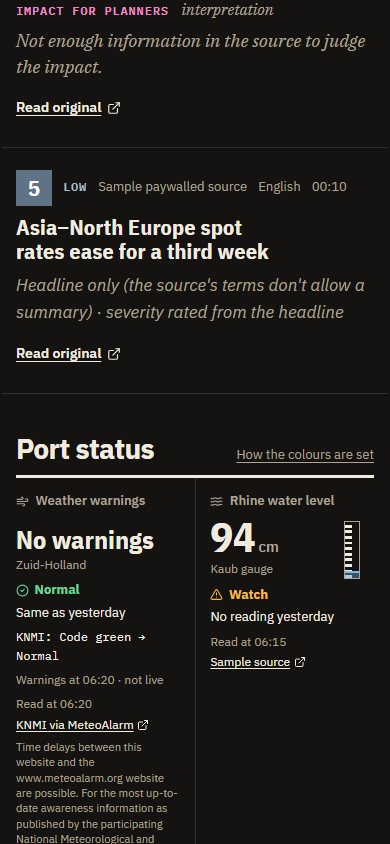
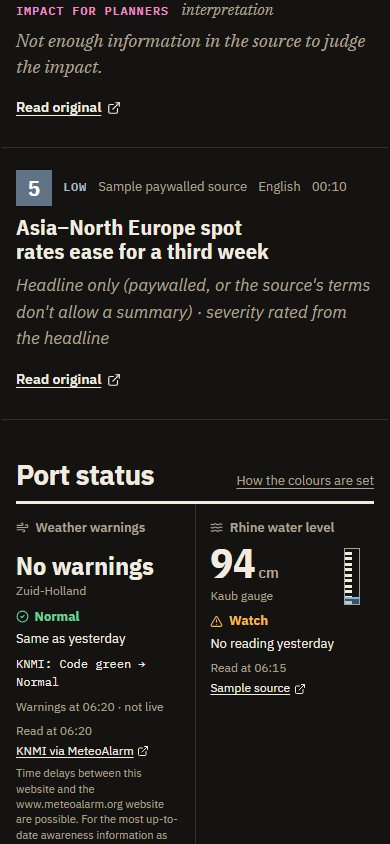
Headline-only line: 'paywalled, or the source's terms…'; spec §2.1/§7.5 owner confirms all 8 defaults (#82, PR #88)

Changed region(s): [[0.0308, 0.4929, 0.9538, 1.0], [0.0308, 0.3081, 0.9538, 0.4621]]

diff --git a/templates/about.html b/templates/about.html
@@ -43,7 +43,7 @@
         <div><dt><span class="swatch num-unrated"></span><span class="sev sev-unrated">Unrated</span></dt><dd>The AI step failed for this item, so it has no severity, summary or impact: only the headline and a link. Unrated items come after all rated ones.</dd></div>
       </dl>
       <p>The impact for planners is always an interpretation, which is why it is set in a different typeface. When the source does not support one, the item says <em>Not enough information</em> instead of guessing.</p>
-      <p>Items from headline-only sources (see Sources) have no summary. The AI rates them from the headline alone, and the item says <em>severity rated from the headline</em>.</p>
+      <p>Items from headline-only sources (see Sources) have no summary: the source is paywalled, or its terms don't allow one. The AI rates them from the headline alone, and the item says <em>severity rated from the headline</em>.</p>
       <p>If the AI is unavailable all morning, the job tries again an hour later. If it is still down at the last try, a reduced brief is published so no day is skipped: the port status, and only items from the Rotterdam-specific sources, all unrated, under the note <em>"The AI step was unavailable this morning: headlines only, no summaries."</em> The strike flag then shows No data, because it can't be judged without the AI.</p>
     </section>
 

diff --git a/haven/render.py b/haven/render.py
@@ -382,9 +382,10 @@ def prepare_indicator(indicator: dict, previous: dict | None, is_first: bool, br
 
 
 # The one grey line of a short card, an item with no summary (design review S5, #82, spec §7.5).
-# The headline-only wording is the owner's (PR #80); the panel shows the same line when opened.
+# The headline-only wording is the owner's (PR #80, paywall added in PR #88, spec §2.1); the panel
+# shows the same line when opened.
 HEADLINE_NOTES = {
-    "headline-only": "Headline only (the source's terms don't allow a summary) · severity rated from the headline",
+    "headline-only": "Headline only (paywalled, or the source's terms don't allow a summary) · severity rated from the headline",
     "unread": "Headline only (the article couldn't be read) · severity rated from the headline",
     "unrated": "Headline only (the AI step failed for this item) · no summary, impact or severity",
 }

diff --git a/docs/SPEC.md b/docs/SPEC.md
@@ -59,7 +59,7 @@ Owner: Leonardo Neirotti. Compiled 31 October 2026.*
 - "Affects" tags (e.g. Containers · Maasvlakte II · Truck pickups).
 - For Dutch items: "Read in English" link.
 - Optional map pin so the item appears on the chart: the AI picks a place from a fixed list, the code adds `lat`, `lon`, `label` (§5.10). "Affects" tags also come from a fixed list (§5.10).
-- Paywalled sources: headline + link only ("Headline only: this source is paywalled or its terms don't allow a summary."). *(Wording changed from "This source is paywalled, so there is no summary." in #23, Claude's proposal, confirmed by the owner 2 Nov 2026, PR #75: NL Times, The Loadstar and RTV Rijnmond are headline-only for their AI or RSS terms, not a paywall, so the old sentence was untrue for them.)* *(Since #82, 3 Nov 2026: the card says "Headline only (the source's terms don't allow a summary) · severity rated from the headline", the owner's wording from the design review, PR #80; §7.5.)*
+- Paywalled sources: headline + link only ("Headline only: this source is paywalled or its terms don't allow a summary."). *(Wording changed from "This source is paywalled, so there is no summary." in #23, Claude's proposal, confirmed by the owner 2 Nov 2026, PR #75: NL Times, The Loadstar and RTV Rijnmond are headline-only for their AI or RSS terms, not a paywall, so the old sentence was untrue for them.)* *(Since #82, 3 Nov 2026: the card says "Headline only (paywalled, or the source's terms don't allow a summary) · severity rated from the headline": the design review's wording (PR #80) with the paywall added by the owner, 3 Nov 2026, PR #88, so the line still covers paywalled sources as this section says; §7.5.)*
 - **Headline-only items** (paywalled or AI opt-out, §3 rule 12, §4) still get a **severity, rated by the AI from the headline alone**, shown as **"rated from headline only"** next to the severity tag *(since #82: as "severity rated from the headline" in the card's one grey line, §7.5)*. From the same headline the AI also picks the **place** and **"affects" tags** (same fixed lists, §5.10) and extracts **strike details** (same rules, §5.7: dates only if the headline states them; an `unsure` match never clears a strike), so a strike reported only by a headline-only source (e.g. NL Times, RTV Rijnmond) still raises the strike flag. No summary; impact stays `null` (the short card shows no impact block, #82). If that AI call fails, the item is unrated like any other. *(Decided by the owner, 1 Nov 2026.)*
 
 ### 2.2 Port status line
@@ -1096,7 +1096,7 @@ Principle: **fact vs interpretation in two typefaces** — the impact is the onl
 
 **Cards and panel (built 3 Nov 2026, #82; design review S5, S10, S11, M3, §7.8).**
 - **Short card (S5)** for every item without a summary, with one grey line (`render.HEADLINE_NOTES`, worked out once in `render.headline_note` and shown on the card and in the panel):
-  - headline-only source: *"Headline only (the source's terms don't allow a summary) · severity rated from the headline"* (the owner's wording, PR #80);
+  - headline-only source: *"Headline only (paywalled, or the source's terms don't allow a summary) · severity rated from the headline"* (the owner's wording, PR #80; "paywalled, or" added by the owner, 3 Nov 2026, PR #88, to cover paywalled sources as §2.1 says);
   - `use` item whose article couldn't be read: *"Headline only (the article couldn't be read) · severity rated from the headline"*;
   - unrated (AI failed, §5.6): *"Headline only (the AI step failed for this item) · no summary, impact or severity"*.
   No impact block, no "No single place on the chart". **"Not enough information" stays for a rated item with a summary but no impact** (full card).
@@ -1105,7 +1105,7 @@ Principle: **fact vs interpretation in two typefaces** — the impact is the onl
 - **M3, one behaviour for every panel entry:** every entry is a `#item-N` link with `data-action="show-item"`. With JavaScript a click opens it in the panel (summary or grey line) and moves the chart **only if the item has a place**; without a place the chart stays where it is, the earlier item's focus box goes away, a screen reader hears "Item N has no place on the chart." and the address gets `#item-N` like any other item. Without JavaScript (or when the chart can't load) the entries stay plain links to the cards.
 - Tests: `tests/test_cards_panel.py` (card variants, intro sentence, ship-list marker, label, panel sizes and markup). The click was checked in headless Edge (§8.7) at 1440 and 600 px: an entry with a place starts the chart moving; one without a place opens with its grey line and the chart doesn't change for 8 s afterwards (no map change at all), the page doesn't scroll. Screenshots before/after (sample briefs only): `design/screenshots/issue-82/`.
 
-*Claude's defaults (#82), not yet confirmed by the owner:*
+*Claude's defaults (#82), all 8 confirmed by the owner (3 Nov 2026, PR #88), with one change to the headline-only line above (paywall added):*
 1. **The two lines the review didn't word** (article not read, unrated) follow the owner's headline-only line: "Headline only (why) · what that means". The unrated one drops "Read the original for the details": the "Read original" link is right below.
 2. **The "rated from headline only" tag next to the severity is gone** where the line says "severity rated from the headline", so it isn't said twice. The Method page now quotes the new words.
 3. **"No single place on the chart" is removed from every card**, not only short ones: an item without a place simply has no "Show on chart" button.
